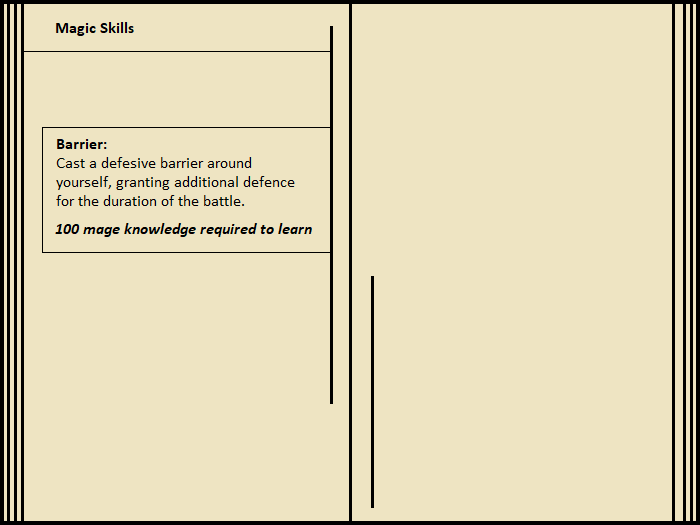
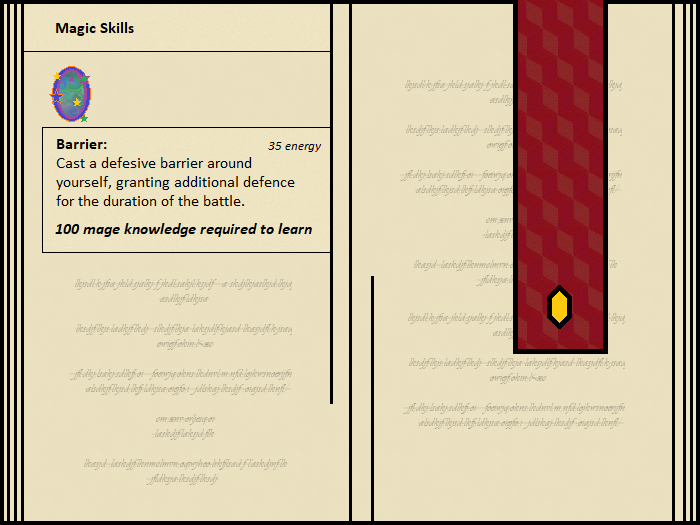
Fixed an issue on the start screen where the 1600x900 button was not updating its image correctly when scaled.
Added updated art for the role books in the academia. Added art for the new abilities, however they haven't been implemented at this point.

diff --git a/project_eterna.py b/project_eterna.py
@@ -1827,7 +1827,7 @@ s1024_x_576_button = UiElement("s1024x576 button", 640, 402, resource_urls.s1024
                                False, "1280")
 s1280_x_720_button = UiElement("s1280x720 button", 640, 472, resource_urls.s1280_x_720_button_url, (255, 255, 255),
                                False, "1280")
-s1600_x_900_button = UiElement("s1280x720 button", 640, 542, resource_urls.s1600_x_900_button_url, (255, 255, 255),
+s1600_x_900_button = UiElement("s1600x900 button", 640, 542, resource_urls.s1600_x_900_button_url, (255, 255, 255),
                                False, "1280")
 # ----------------------------------------------------------------------------------------------------------------------
 continue_button = UiElement("continue button", 625, 575, resource_urls.continue_button_url, (255, 255, 255), False,
@@ -1922,7 +1922,8 @@ grass.add(seldon_grass_1, seldon_grass_2, seldon_grass_3, seldon_grass_4, seldon
 flowers.add(seldon_flower_1, seldon_flower_2, seldon_flower_3)
 buildings.add(seldon_inn, seldon_shop, seldon_academia)
 user_interface.add(rest_button, buy_button, leave_button, character_button, journal_button, unstuck_button, message_box)
-conditional_interface.add(buy_inventory, character_sheet, journal, level_up_win)
+conditional_interface.add(buy_inventory, character_sheet, journal, level_up_win, mage_book, fighter_book, scout_book,
+                          mage_learn_button, fighter_learn_button, scout_learn_button)
 start_screen_sprites.add(s1024_x_576_button, s1280_x_720_button, s1600_x_900_button, start_button)
 game_over_screen_sprites.add(continue_button)
 # all environment sprites for collision detection ----------------------------------------------------------------------
@@ -2092,8 +2093,7 @@ while game_running:
                             sprite_to_scale.rect = sprite_to_scale.surf.get_rect(
                                 center=(sprite_to_scale.x_coordinate * .80, sprite_to_scale.y_coordinate * .80))
                         player.image_size = "1024"
-                        player.surf = pygame.image.load(
-                            screen_scaling.screen_scaling(player)).convert()
+                        player.surf = pygame.image.load(screen_scaling.screen_scaling(player)).convert()
                         player.surf.set_colorkey((255, 255, 255), RLEACCEL)
                         scaled_1024 = True
                         scaled_1280 = False
@@ -2121,8 +2121,7 @@ while game_running:
                             sprite_to_scale.rect = sprite_to_scale.surf.get_rect(
                                 center=(sprite_to_scale.x_coordinate, sprite_to_scale.y_coordinate))
                         player.image_size = "1280"
-                        player.surf = pygame.image.load(
-                            screen_scaling.screen_scaling(player)).convert()
+                        player.surf = pygame.image.load(screen_scaling.screen_scaling(player)).convert()
                         player.surf.set_colorkey((255, 255, 255), RLEACCEL)
                         scaled_1024 = False
                         scaled_1280 = True
@@ -2150,8 +2149,7 @@ while game_running:
                             sprite_to_scale.rect = sprite_to_scale.surf.get_rect(
                                 center=(sprite_to_scale.x_coordinate / .80, sprite_to_scale.y_coordinate / .80))
                         player.image_size = "1600"
-                        player.surf = pygame.image.load(
-                            screen_scaling.screen_scaling(player)).convert()
+                        player.surf = pygame.image.load(screen_scaling.screen_scaling(player)).convert()
                         player.surf.set_colorkey((255, 255, 255), RLEACCEL)
                         scaled_1024 = False
                         scaled_1280 = False

diff --git a/screen_scaling.py b/screen_scaling.py
@@ -88,6 +88,12 @@ def screen_scaling(object_to_scale):
             return resource_urls.journal_url_1024
         if object_to_scale.name == "level up window":
             return resource_urls.level_up_url_1024
+        if object_to_scale.name == "mage book":
+            return resource_urls.mage_book_url_1024
+        if object_to_scale.name == "fighter book":
+            return resource_urls.fighter_book_url_1024
+        if object_to_scale.name == "scout book":
+            return resource_urls.scout_book_url_1024
 
     # ------------------------------------------------------------------------------------------------------------------
     if object_to_scale.image_size == "1280":
@@ -175,6 +181,12 @@ def screen_scaling(object_to_scale):
             return resource_urls.journal_url
         if object_to_scale.name == "level up window":
             return resource_urls.level_up_url
+        if object_to_scale.name == "mage book":
+            return resource_urls.mage_book_url
+        if object_to_scale.name == "fighter book":
+            return resource_urls.fighter_book_url
+        if object_to_scale.name == "scout book":
+            return resource_urls.scout_book_url
 
     # ------------------------------------------------------------------------------------------------------------------
     if object_to_scale.image_size == "1600":
@@ -262,4 +274,9 @@ def screen_scaling(object_to_scale):
             return resource_urls.journal_url_1600
         if object_to_scale.name == "level up window":
             return resource_urls.level_up_url_1600
-
+        if object_to_scale.name == "mage book":
+            return resource_urls.mage_book_url_1600
+        if object_to_scale.name == "fighter book":
+            return resource_urls.fighter_book_url_1600
+        if object_to_scale.name == "scout book":
+            return resource_urls.scout_book_url_1600
